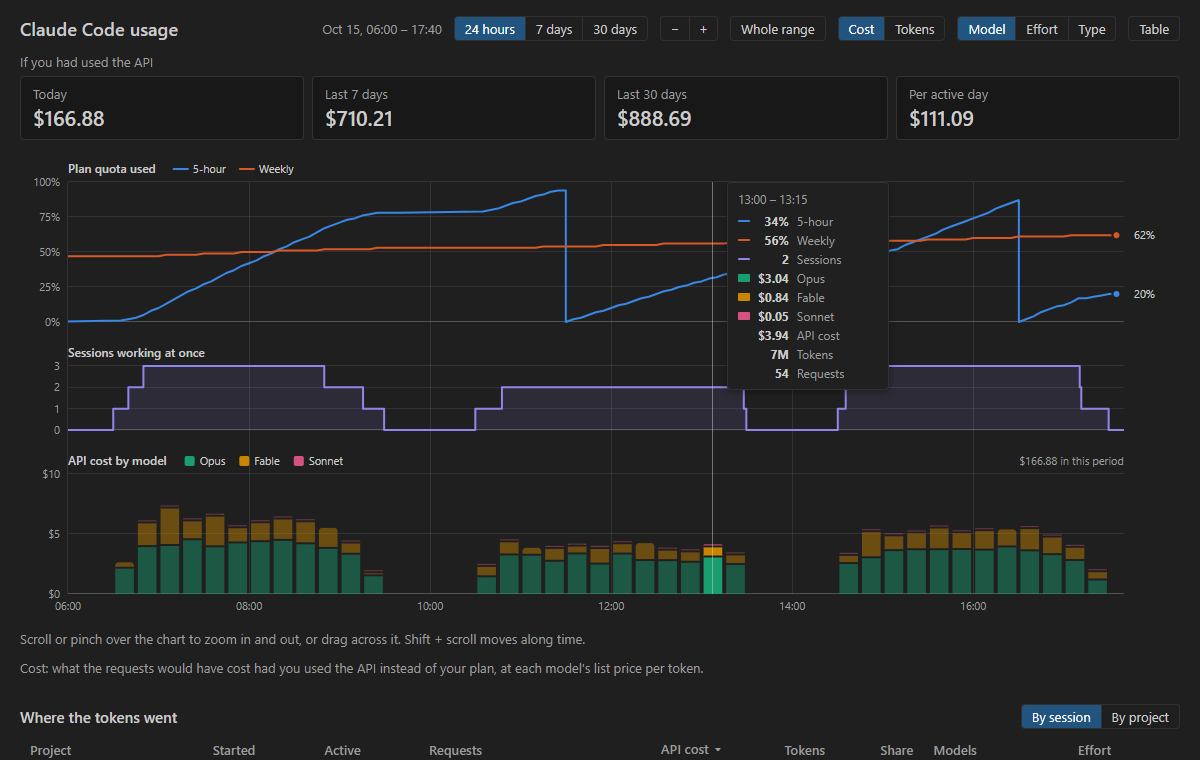
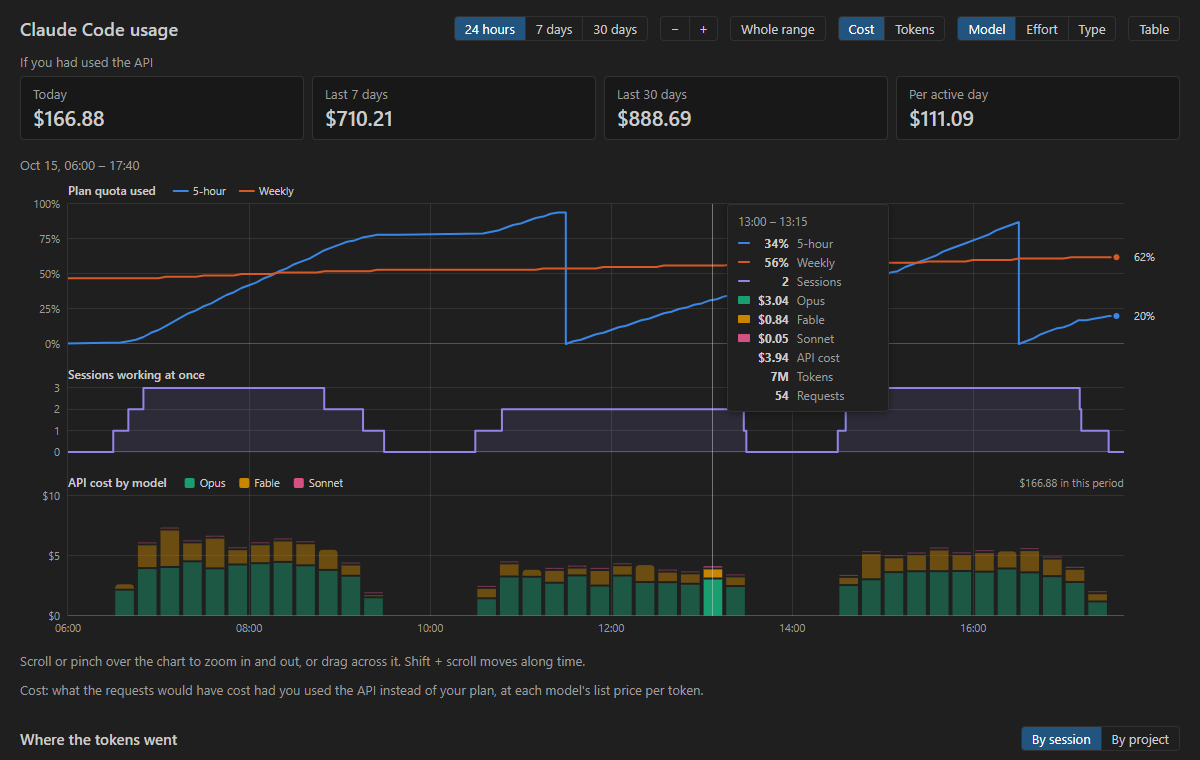
fix: keep the timeline in place while zooming (#20)
The zoom label and the Whole range button appeared in the header when zooming in, wrapped the controls and pushed the chart down. Show the window above the chart at all times and keep the button, disabled until zoomed.

diff --git a/src/webview/main.ts b/src/webview/main.ts
@@ -38,7 +38,8 @@ class Panel {
   private readonly measureButtons = new Map<TokenMeasure, HTMLButtonElement>();
   private readonly measureNote = document.createElement('p');
   private readonly spend: SpendTiles;
-  private readonly zoomLabel = document.createElement('span');
+  /** Below the header, not in it: a label that comes and goes there wraps the controls. */
+  private readonly zoomLabel = document.createElement('p');
   private readonly zoomInButton = document.createElement('button');
   private readonly zoomOutButton = document.createElement('button');
   private readonly resetButton = document.createElement('button');
@@ -92,6 +93,7 @@ class Panel {
     main.append(
       header,
       this.spend.element,
+      this.zoomLabel,
       this.body,
       hint,
       this.measureNote,
@@ -148,7 +150,7 @@ class Panel {
     this.resetButton.type = 'button';
     this.resetButton.className = 'np-view-toggle';
     this.resetButton.textContent = this.strings.resetZoom;
-    this.resetButton.hidden = true;
+    this.resetButton.disabled = true;
     this.resetButton.addEventListener('click', () => this.zoom(undefined, 0));
     this.viewButton.type = 'button';
     this.viewButton.className = 'np-view-toggle';
@@ -193,7 +195,7 @@ class Panel {
       this.measureButtons.set(value, button);
       measure.append(button);
     }
-    row.append(this.zoomLabel, ranges, zoom, this.resetButton, measure, split, this.viewButton);
+    row.append(ranges, zoom, this.resetButton, measure, split, this.viewButton);
     return row;
   }
 
@@ -263,10 +265,11 @@ class Panel {
     if (!data) return;
     const view = this.view!;
     const zoomed = !coversExtent(view, data.extent);
-    this.zoomLabel.textContent = zoomed ? this.formats.window(view.from, view.to) : '';
+    // The window shown, zoomed or not, so the line keeps its place.
+    this.zoomLabel.textContent = this.formats.window(view.from, view.to);
     this.zoomOutButton.disabled = !zoomed;
     this.zoomInButton.disabled = view.to - view.from <= MIN_WINDOW_MS;
-    this.resetButton.hidden = !zoomed;
+    this.resetButton.disabled = !zoomed;
     if (this.table) {
       this.body.replaceChildren(
         timelineTable(data, this.strings, this.formats, this.split, this.measure),

diff --git a/test/visual/timeline.spec.ts b/test/visual/timeline.spec.ts
@@ -167,6 +167,8 @@ test('zooms into a window dragged across the chart, and back out', async ({ page
   const whole = sampleTimeline('24h');
   await panel.init(whole);
   const box = (await page.locator('.np-hit').boundingBox())!;
+  const chartTop = async () => (await page.locator('.np-chart').boundingBox())!.y;
+  const top = await chartTop();
   const y = box.y + 60;
   await page.mouse.move(box.x + box.width * 0.55, y);
   await page.mouse.down();
@@ -177,7 +179,9 @@ test('zooms into a window dragged across the chart, and back out', async ({ page
 
   // Shown at once from what the panel has, then asked of the host.
   await expect(page.locator('.np-zoom-label')).not.toBeEmpty();
-  await expect(page.getByRole('button', { name: strings.resetZoom })).toBeVisible();
+  await expect(page.getByRole('button', { name: strings.resetZoom })).toBeEnabled();
+  // Zooming moves nothing on the page: the chart stays under the pointer.
+  expect(await chartTop()).toBe(top);
   await expect.poll(async () => (await zoomRequests(panel)).length).toBe(1);
   const [request] = await zoomRequests(panel);
   const span = whole.to - whole.from;
@@ -191,7 +195,7 @@ test('zooms into a window dragged across the chart, and back out', async ({ page
   await page.getByRole('button', { name: strings.resetZoom }).click();
   await expect.poll(async () => (await zoomRequests(panel)).at(-1)).toEqual({ type: 'zoom' });
   await panel.post({ type: 'timeline', data: whole });
-  await expect(page.getByRole('button', { name: strings.resetZoom })).toBeHidden();
+  await expect(page.getByRole('button', { name: strings.resetZoom })).toBeDisabled();
   await expect(page.getByRole('button', { name: strings.zoomOut })).toBeDisabled();
   expect(panel.problems).toEqual([]);
 });

diff --git a/src/webview/styles/panel.css b/src/webview/styles/panel.css
@@ -102,12 +102,10 @@ body {
 }
 
 .np-zoom-label {
+  min-height: 1.4em;
+  margin: 0 0 4px;
   color: var(--vscode-descriptionForeground);
   font-variant-numeric: tabular-nums;
-}
-
-.np-zoom-label:empty {
-  display: none;
 }
 
 .np-controls .np-zoom-step {

diff --git a/CHANGELOG.md b/CHANGELOG.md
@@ -10,6 +10,8 @@ and this project adheres to [Semantic Versioning](https://semver.org/spec/v2.0.0
 
 - Scrolling over the timeline now zooms in and out around the pointer, without holding Ctrl.
   Shift + scroll moves along time. Over the chart the wheel no longer scrolls the panel.
+- The dates of the window shown sit above the chart, and **Whole range** stays in place, greyed out
+  until you zoom: zooming no longer moves the chart down the page.
 
 ## [0.1.0] - 2026-10-15
 
